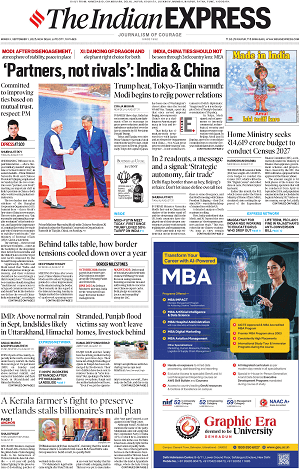
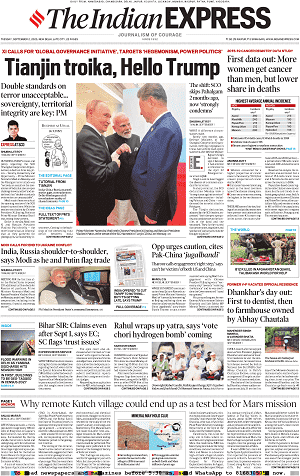
Add files via upload

diff --git a/index.html b/index.html
@@ -461,7 +461,7 @@
 
         <section class="grid grid-cols-1 sm:grid-cols-2 lg:grid-cols-4 gap-6 mb-12">
             <div id="statAffairs" class="glass-effect p-6 rounded-2xl hover-float text-center">
-                <h3 class="text-gray-500 dark:text-gray-400 font-semibold mb-1">Today’s Affairs</h3>
+                <h3 class="text-gray-500 dark:text-gray-400 font-semibold mb-1">Today's Affairs</h3>
                 <p class="text-4xl font-bold text-blue-500 dark:text-blue-400">0</p>
             </div>
             <div id="statPapers" class="glass-effect p-6 rounded-2xl hover-float text-center">
@@ -474,13 +474,13 @@
             </div>
             <div id="statReaders" class="glass-effect p-6 rounded-2xl hover-float text-center">
                 <h3 class="text-gray-500 dark:text-gray-400 font-semibold mb-1">Readers</h3>
-                <p class="text-4xl font-bold text-yellow-500 dark:text-yellow-400">1220</p>
+                <p class="text-4xl font-bold text-yellow-500 dark:text-yellow-400">1230</p>
             </div>
         </section>
 
         <section id="epapers" class="mb-12">
             <div class="flex items-center space-x-4 mb-6">
-                <h2 class="text-3xl font-bold text-gray-800 dark:text-white">Today’s ePapers</h2>
+                <h2 class="text-3xl font-bold text-gray-800 dark:text-white">Today's ePapers</h2>
                 <div class="hidden sm:inline-block px-3 py-1 bg-green-500 text-white text-xs font-bold rounded-full">
                     Updated daily at 6AM IST</div>
             </div>
@@ -795,13 +795,13 @@
         const pageSize = 15;
 
         const epapers = [
-            { title: "The Hindu", url: "https://www.dropbox.com/scl/fi/go1a1rg86nrjg3s1x6utn/TH-Delhi-Coded-Free-Edition-01-09-2025.pdf?rlkey=1rp9mxotwxyqv2qi9l9nxecj6&st=mkqhd9h3&dl=0", addedAt: null, thumbnailUrl: "1.png" },
-            { title: "Indian Express", url: "https://www.dropbox.com/scl/fi/0wdiirleh6m62y4p406zv/IE-Delhi-Coded-Free-Edition-01-09-2025.pdf?rlkey=zchli0e2gj7rzrjadn4g7b5ph&st=05uon1x4&dl=0", addedAt: null, thumbnailUrl: "2.png" },
+            { title: "The Hindu", url: "https://www.dropbox.com/scl/fi/e0wzmf0we1siu23jikry8/TH-Delhi-Coded-Free-Version-02-09-2025.pdf?rlkey=m6p63vvidj6jxkcd577v0jjv9&st=llw8tqh6&dl=0", addedAt: null, thumbnailUrl: "1.png" },
+            { title: "Indian Express", url: "https://www.dropbox.com/scl/fi/6jv8lz0ysu0t90l3e9w8n/IE-Delhi-Coded-Free-Version-02-09-2025.pdf?rlkey=9i54s74mzr9708f3bilr5hlk5&st=3rx6jphe&dl=0", addedAt: null, thumbnailUrl: "2.png" },
             { title: "Business Line", url: "subscribe.html", addedAt: null, thumbnailUrl: "3.png" },
             { title: "Economic Times", url: "subscribe.html", addedAt: null, thumbnailUrl: "4.png" },
             { title: "Times Of India Delhi", url: "Subscribe.html", addedAt: null, thumbnailUrl: "5.png" },
-            { title: "मशीन अनुवादित - द हिन्दू", url: "https://www.dropbox.com/scl/fi/lek2sc5pdu01g4mid8v7g/Coded-01-09-2025.pdf?rlkey=7lsixpo8745a3i9l38ia06p2s&st=d94qhsn3&dl=0", addedAt: null, thumbnailUrl: "6.png" },
-            { title: "इंसान अनुवादित - द हिन्दू", url: "https://iah.netlify.app/", addedAt: null, thumbnailUrl: "7.png" },
+            { title: "मशीन अनुवादित - द हिन्दू", url: "https://www.dropbox.com/scl/fi/wxx4mlkgqrbea44z2b3dy/coded-free-02-09-2025.pdf?rlkey=rrowedswxr7ma4d4nalv415xl&st=iodbbxhg&dl=0", addedAt: null, thumbnailUrl: "6.png" },
+            { title: "इंसान अनुवादित - द हिन्दू", url: "https://iah.netlify.app/", addedAt: null, thumbnailUrl: "hindi.png" },
         ];
 
         // --- Helper Functions ---
